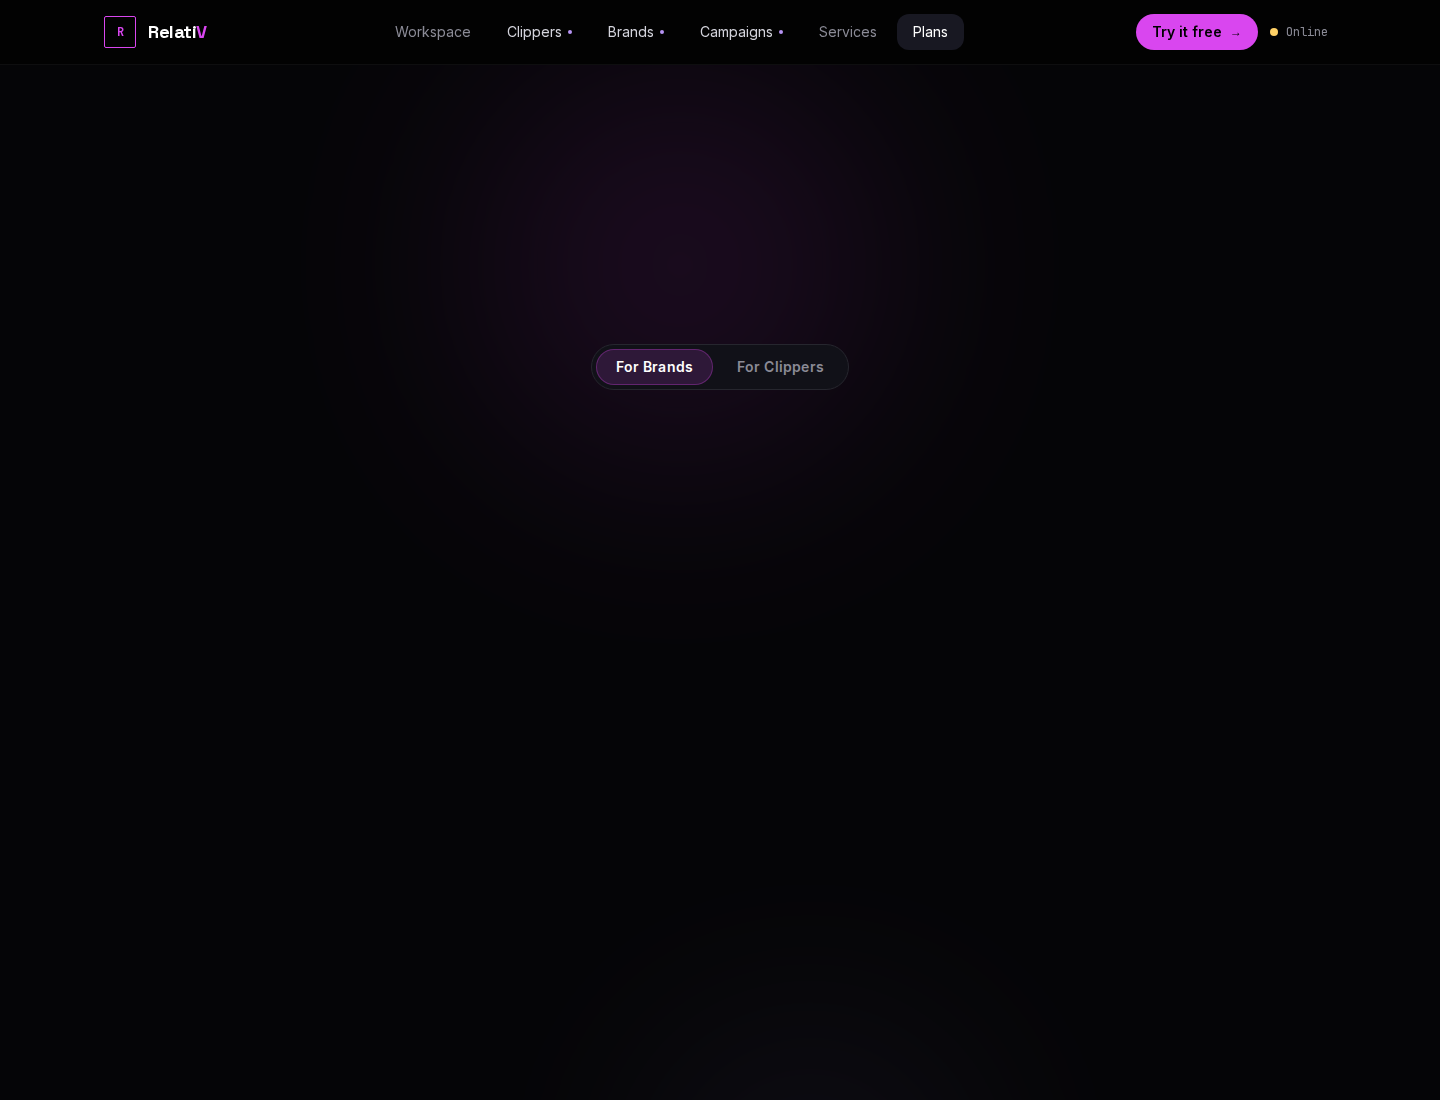
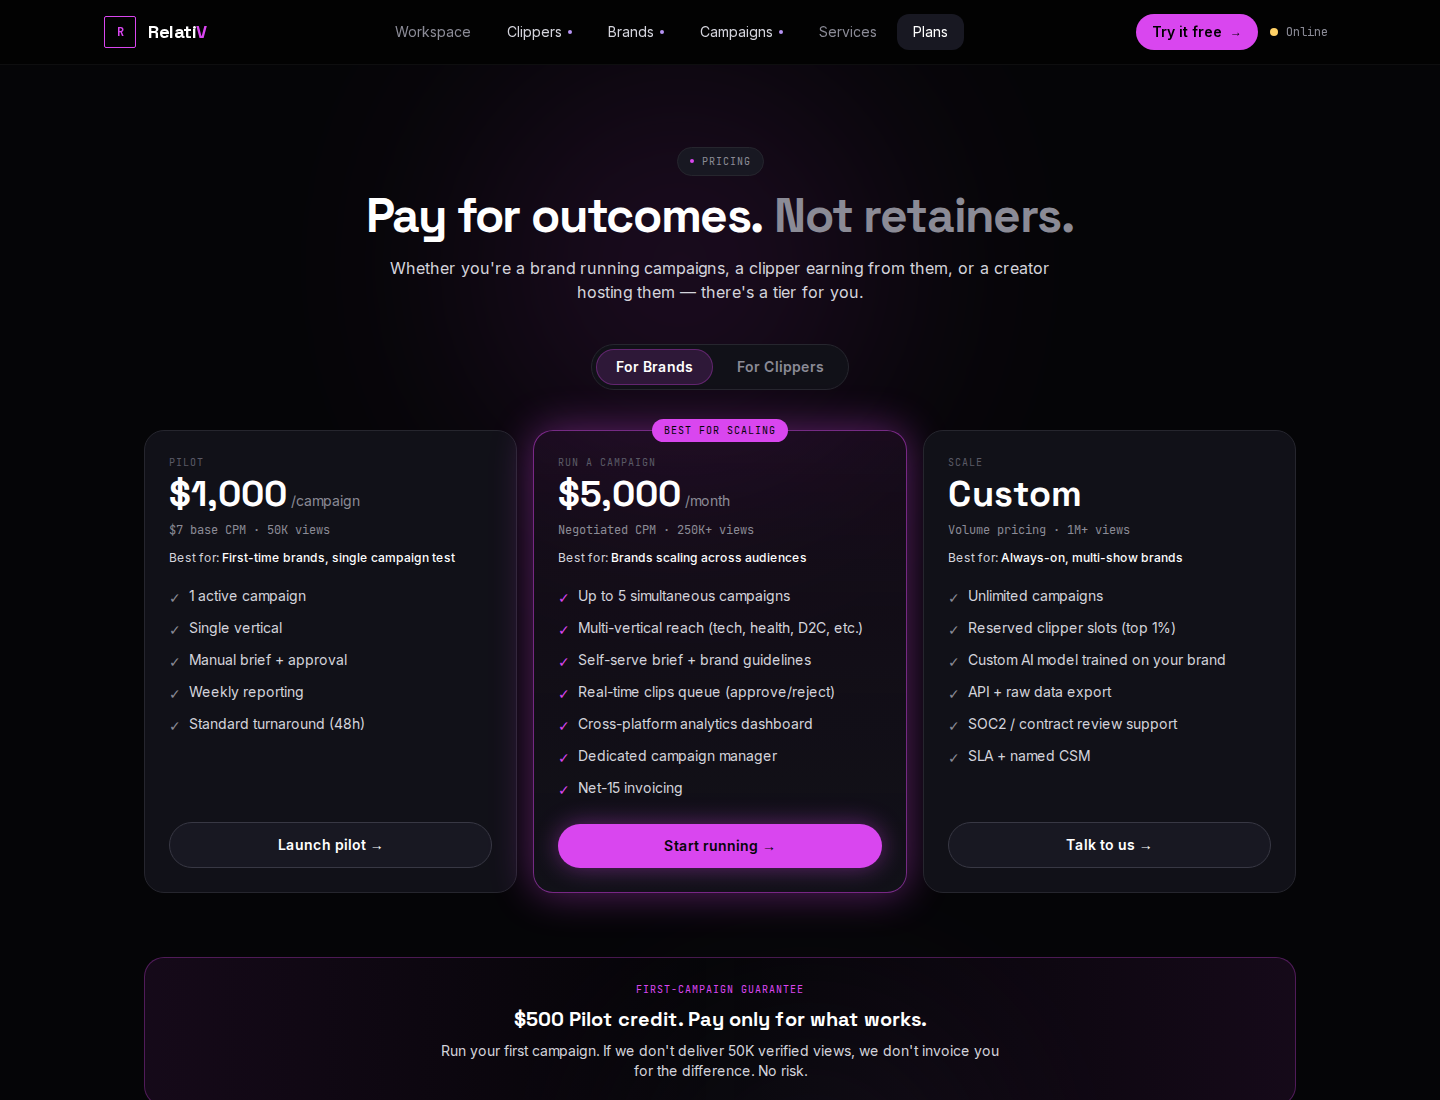
fix: plans page tiers stuck at opacity 0, campaigns hero text missing
- Remove AnimatePresence + motion.div wrapper from plans page tier grid
  (was causing initial: opacity 0 to stick). Lose side-toggle fade, gain
  visible cards.
- Remove framer-motion wrappers from campaigns page hero (badge, h1, p)
  for the same SSR/hydration issue.
- Bar chart on clipper dashboard uses inline height + CSS transition
  instead of framer-motion.
- TypeScript clean, build clean, all 4 dashboard pages render correctly.

diff --git a/frontend-next/src/app/plans/page.tsx b/frontend-next/src/app/plans/page.tsx
@@ -183,11 +183,7 @@ export default function PlansPage() {
 
       <div className="relative max-w-6xl mx-auto">
         {/* Header */}
-        <motion.div
-          initial={{ opacity: 0, y: 16 }}
-          animate={{ opacity: 1, y: 0 }}
-          className="text-center mb-10"
-        >
+        <div className="text-center mb-10">
           <span className="inline-flex items-center gap-2 mb-4 px-3 py-1.5 rounded-full bg-[color:var(--color-surface-2)] border border-[color:var(--color-border)] text-[10px] font-mono tracking-widest text-text-muted">
             <span className="h-1 w-1 rounded-full bg-[color:var(--color-accent)]" />
             PRICING
@@ -200,7 +196,7 @@ export default function PlansPage() {
             Whether you&apos;re a brand running campaigns, a clipper earning
             from them, or a creator hosting them — there&apos;s a tier for you.
           </p>
-        </motion.div>
+        </div>
 
         {/* Side toggle */}
         <div className="flex justify-center mb-10">
@@ -234,39 +230,28 @@ export default function PlansPage() {
         </div>
 
         {/* Tiers */}
-        <AnimatePresence mode="wait">
-          <motion.div
-            key={side}
-            initial={{ opacity: 0, y: 12 }}
-            animate={{ opacity: 1, y: 0 }}
-            exit={{ opacity: 0, y: -8 }}
-            transition={{ duration: 0.25 }}
-            className="grid grid-cols-1 md:grid-cols-3 gap-4 mb-16"
-          >
-            {tiers.map((tier, i) => (
-              <motion.div
-                key={tier.name}
-                initial={{ opacity: 0, y: 12 }}
-                animate={{ opacity: 1, y: 0 }}
-                transition={{ delay: i * 0.05 }}
-                className={`relative rounded-[var(--radius-lg)] border p-6 flex flex-col ${
-                  tier.highlight
-                    ? side === "brands"
-                      ? "border-[color:var(--color-accent)]/50 bg-gradient-to-b from-[color:var(--color-accent)]/8 to-[color:var(--color-surface)]"
-                      : "border-[color:var(--color-accent-tertiary)]/50 bg-gradient-to-b from-[color:var(--color-accent-tertiary)]/8 to-[color:var(--color-surface)]"
-                    : "border-[color:var(--color-border)] bg-[color:var(--color-surface)]"
-                }`}
-                style={
-                  tier.highlight
-                    ? {
-                        boxShadow:
-                          side === "brands"
-                            ? "0 0 40px var(--color-glow-primary)"
-                            : "0 0 40px var(--color-glow-violet)",
-                      }
-                    : undefined
-                }
-              >
+        <div className="grid grid-cols-1 md:grid-cols-3 gap-4 mb-16">
+          {tiers.map((tier, i) => (
+            <div
+              key={tier.name}
+              className={`relative rounded-[var(--radius-lg)] border p-6 flex flex-col ${
+                tier.highlight
+                  ? side === "brands"
+                    ? "border-[color:var(--color-accent)]/50 bg-gradient-to-b from-[color:var(--color-accent)]/8 to-[color:var(--color-surface)]"
+                    : "border-[color:var(--color-accent-tertiary)]/50 bg-gradient-to-b from-[color:var(--color-accent-tertiary)]/8 to-[color:var(--color-surface)]"
+                  : "border-[color:var(--color-border)] bg-[color:var(--color-surface)]"
+              }`}
+              style={
+                tier.highlight
+                  ? {
+                      boxShadow:
+                        side === "brands"
+                          ? "0 0 40px var(--color-glow-primary)"
+                          : "0 0 40px var(--color-glow-violet)",
+                    }
+                  : undefined
+              }
+            >
                 {tier.highlight && (
                   <div
                     className={`absolute -top-3 left-1/2 -translate-x-1/2 px-3 py-1 text-[10px] font-mono tracking-widest rounded-full ${
@@ -335,16 +320,13 @@ export default function PlansPage() {
                 >
                   {tier.cta} →
                 </Link>
-              </motion.div>
+              </div>
             ))}
-          </motion.div>
-        </AnimatePresence>
+          </div>
 
         {/* Special offer strip — Pilot credit for new brands */}
         {side === "brands" && (
-          <motion.div
-            initial={{ opacity: 0 }}
-            animate={{ opacity: 1 }}
+          <div
             className="mb-16 rounded-[var(--radius-lg)] border border-[color:var(--color-accent)]/30 bg-gradient-to-r from-[color:var(--color-accent)]/8 via-transparent to-[color:var(--color-accent)]/8 p-6 text-center"
           >
             <div className="text-[10px] font-mono tracking-widest text-[color:var(--color-accent)] mb-2">
@@ -357,7 +339,7 @@ export default function PlansPage() {
               Run your first campaign. If we don&apos;t deliver 50K verified
               views, we don&apos;t invoice you for the difference. No risk.
             </p>
-          </motion.div>
+          </div>
         )}
 
         {/* FAQ */}